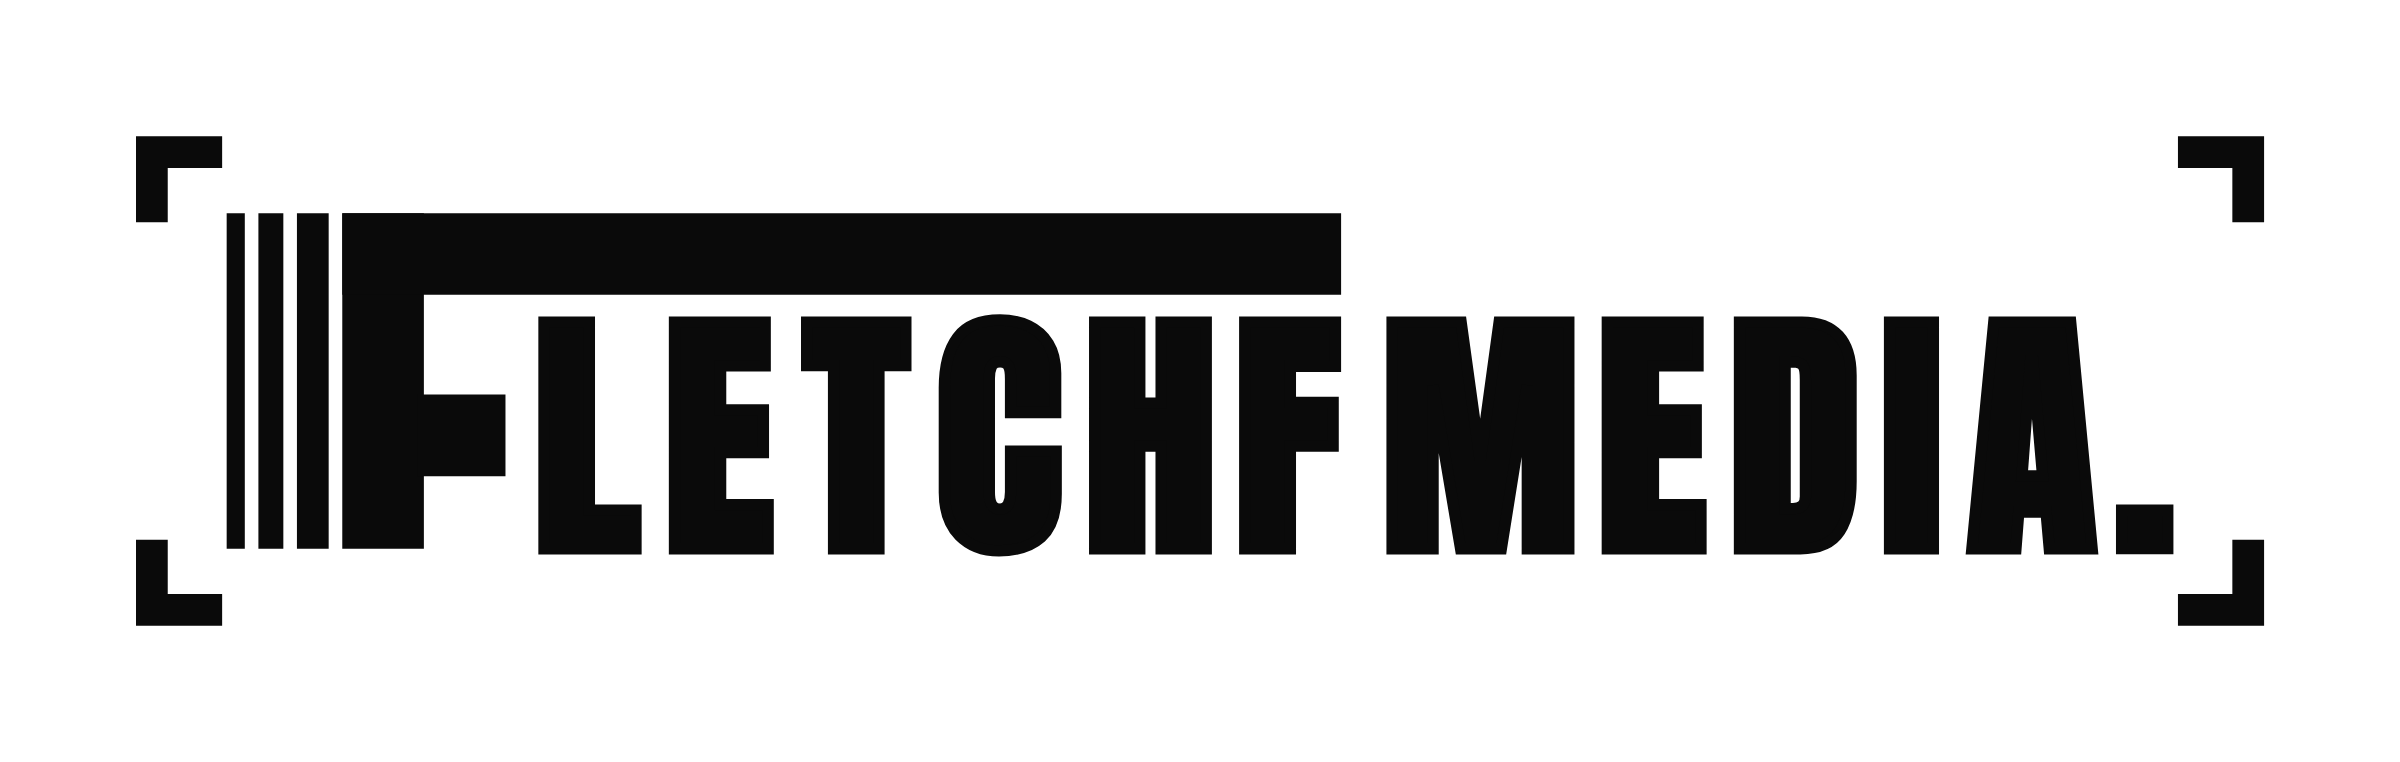
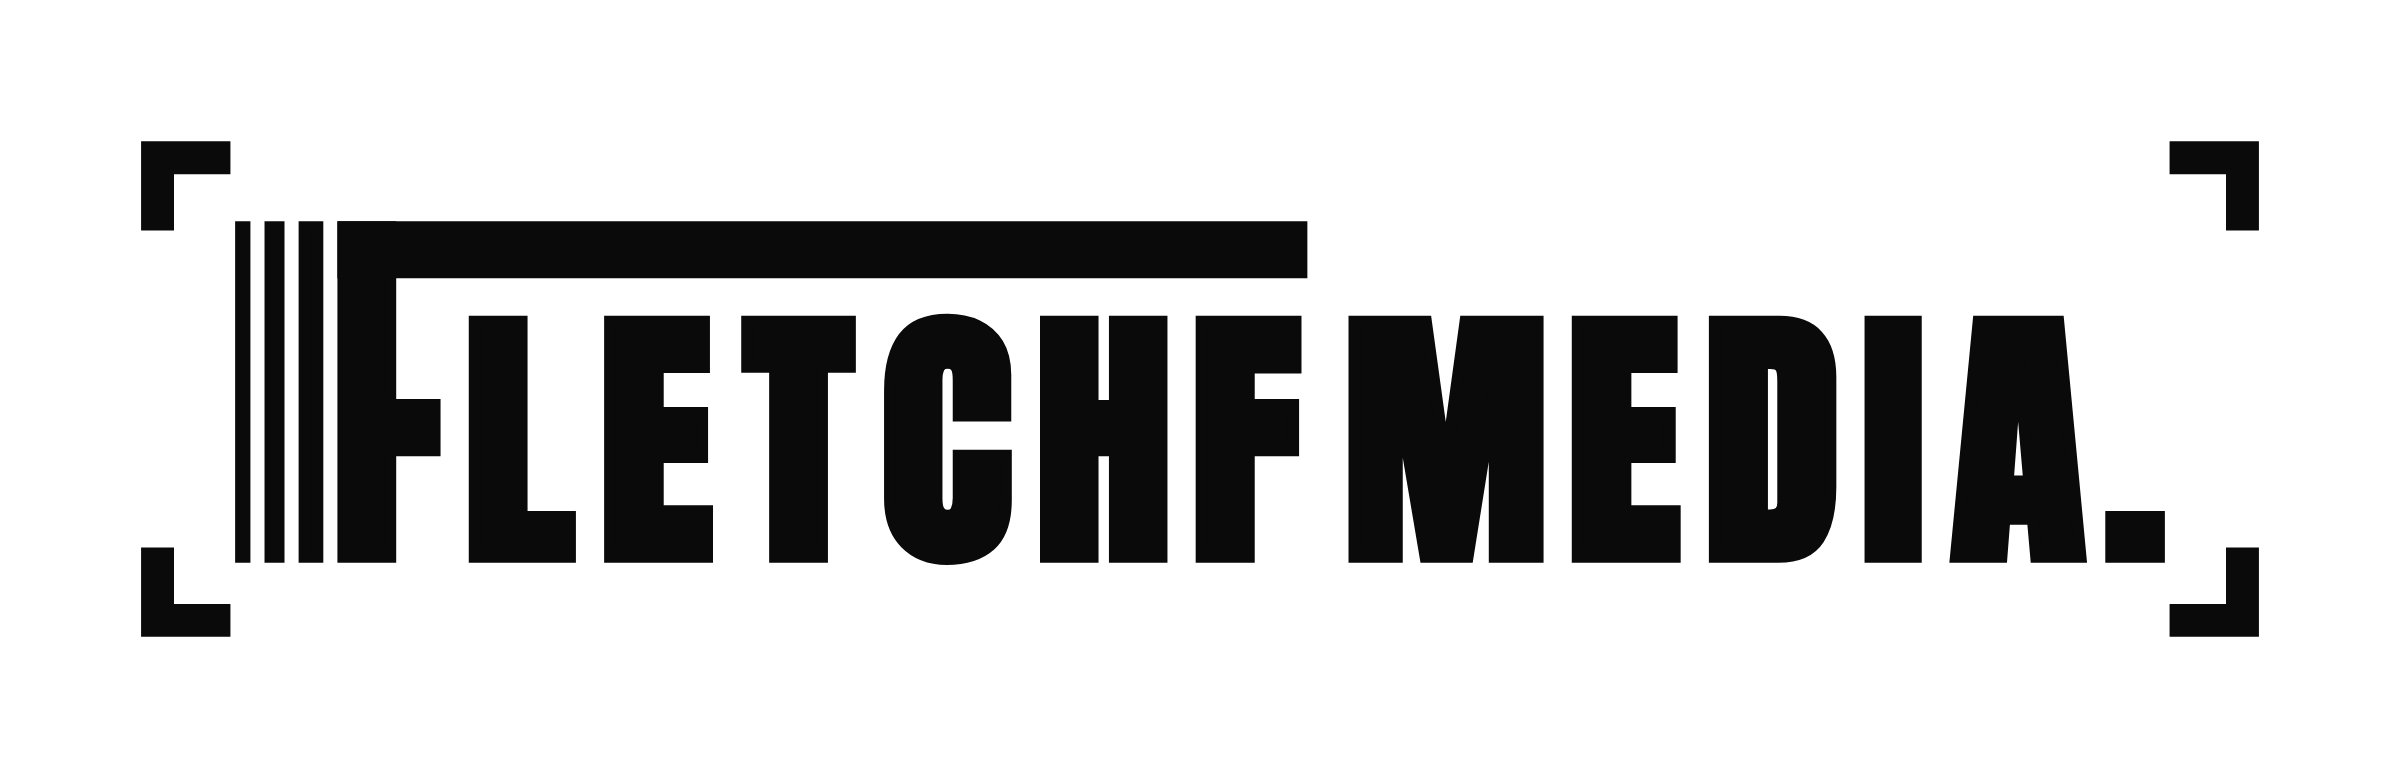
Match signature F stroke weight to the rest of the wordmark
Claude-Session: https://claude.ai/code/session_01JN4vd7Uv4s2QdbLc1YDGPW

diff --git a/branding/generate_logo.py b/branding/generate_logo.py
@@ -23,11 +23,16 @@ TRACK = 12 + BOLD        # letter spacing (px), widened to absorb the stroke
 BLACK, WHITE = '#0A0A0A', '#FFFFFF'
 
 # signature F geometry (cap height = 100)
-STEM_W, BAR_H, GAP = 36, 36, 12   # stem and bars share one thickness
+# Taken from Anton's own F (stem 352u, arm 339u at 798-1137u) so the F has
+# exactly the same stroke weight as every other letter. All F parts get the
+# same BOLD stroke as the letters.
+STEM_W = 352 * S
+BAR_H = 339 * S
+GAP = 16 + BOLD
 TOP = -100 - GAP - BAR_H           # top of overbar
-ARM_W, ARM_Y0, ARM_Y1 = 36, -68, -32   # arm centred on cap height
-STRIPES = [8, 11, 14]              # speed stripes, thin -> thick toward the F
-STRIPE_GAP = 6
+ARM_W, ARM_Y0, ARM_Y1 = 332 * S, -1137 * S, -798 * S
+STRIPES = [1.5, 3.5, 5.5]     # speed stripes, thin -> thick toward the F
+STRIPE_GAP = 6 + BOLD
 
 
 def glyph(ch, x):
@@ -49,12 +54,17 @@ def poly(pts):
     return 'M' + ' L'.join(f'{x:.2f},{y:.2f}' for x, y in pts) + ' Z'
 
 
-def stripes(fg):
+def stripes():
     out, x = [], 0.0
     for w in reversed(STRIPES):
         x -= STRIPE_GAP + w
-        out.append(f'<path d="{poly([(x, 0), (x + w, 0), (x + w, TOP), (x, TOP)])}" fill="{fg}"/>')
-    return ''.join(out), x
+        out.append(poly([(x, 0), (x + w, 0), (x + w, TOP), (x, TOP)]))
+    return out, x
+
+
+def stroked(fg, paths):
+    return (f'<g fill="{fg}" stroke="{fg}" stroke-width="{BOLD}" stroke-linejoin="miter" '
+            f'stroke-miterlimit="4">' + ''.join(f'<path d="{d}"/>' for d in paths) + '</g>')
 
 
 def corners(fg, x0, y0, x1, y1, L, T):
@@ -70,8 +80,8 @@ def build(fg, brackets=True):
     shapes, letters = [], []
     # tall stem + mid arm of the signature F
     shapes.append(poly([(0, 0), (STEM_W, 0), (STEM_W, TOP), (0, TOP)]))
-    shapes.append(poly([(STEM_W - 3, ARM_Y0), (STEM_W + ARM_W, ARM_Y0),
-                        (STEM_W + ARM_W, ARM_Y1), (STEM_W - 3, ARM_Y1)]))
+    shapes.append(poly([(STEM_W - 1, ARM_Y0), (STEM_W + ARM_W, ARM_Y0),
+                        (STEM_W + ARM_W, ARM_Y1), (STEM_W - 1, ARM_Y1)]))
     x = STEM_W + ARM_W + TRACK
     for ch in 'LETCHF':
         d, b = glyph(ch, x - b_left(ch)); letters.append(d); x += (b[2] - b[0]) * S + TRACK
@@ -85,27 +95,26 @@ def build(fg, brackets=True):
     bar_end = split - TRACK + BOLD / 2
     shapes.append(poly([(0, TOP), (bar_end, TOP), (bar_end, TOP + BAR_H), (0, TOP + BAR_H)]))
 
-    sp, left = stripes(fg)
-    body = sp + ''.join(f'<path d="{p}" fill="{fg}"/>' for p in shapes)
-    body += (f'<g fill="{fg}" stroke="{fg}" stroke-width="{BOLD}" stroke-linejoin="miter" '
-             f'stroke-miterlimit="4">' + ''.join(f'<path d="{d}"/>' for d in letters) + '</g>')
+    sp, left = stripes()
+    body = stroked(fg, sp + shapes + letters)
     g = f'<g transform="matrix(1 0 {-SKEW} 1 0 0)">{body}</g>'
+    left -= BOLD / 2; TOP_ = TOP - BOLD / 2
     minx, maxx = left, end - SKEW * TOP
     if not brackets:
         return g, (minx, TOP, maxx - minx, -TOP + BOLD / 2)
-    x0, x1, y0, y1 = minx - 40, maxx + 40, TOP - 34, 34
+    x0, x1, y0, y1 = minx - 40, maxx + 40, TOP_ - 34, 34
     return g + corners(fg, x0, y0, x1, y1, 38, 14), (x0, y0, x1 - x0, y1 - y0)
 
 
 def icon(fg):
+    R = 72
     ps = [poly([(0, 0), (STEM_W, 0), (STEM_W, TOP), (0, TOP)]),
-          poly([(0, TOP), (96, TOP), (96, TOP + BAR_H), (0, TOP + BAR_H)]),
-          poly([(STEM_W - 3, TOP + 2 * BAR_H), (80, TOP + 2 * BAR_H),
-                (80, TOP + 3 * BAR_H), (STEM_W - 3, TOP + 3 * BAR_H)])]
-    sp, left = stripes(fg)
-    body = sp + ''.join(f'<path d="{p}" fill="{fg}"/>' for p in ps)
-    g = f'<g transform="matrix(1 0 {-SKEW} 1 0 0)">{body}</g>'
-    cx = (left + 96 - SKEW * TOP) / 2; cy = TOP / 2
+          poly([(0, TOP), (R, TOP), (R, TOP + BAR_H), (0, TOP + BAR_H)]),
+          poly([(STEM_W - 1, ARM_Y0), (STEM_W + ARM_W, ARM_Y0),
+                (STEM_W + ARM_W, ARM_Y1), (STEM_W - 1, ARM_Y1)])]
+    sp, left = stripes()
+    g = f'<g transform="matrix(1 0 {-SKEW} 1 0 0)">{stroked(fg, sp + ps)}</g>'
+    cx = (left + R) / 2; cy = TOP / 2
     h = 122
     x0, x1, y0, y1 = cx - h, cx + h, cy - h, cy + h
     return g + corners(fg, x0, y0, x1, y1, 44, 16), (x0, y0, x1 - x0, y1 - y0)
